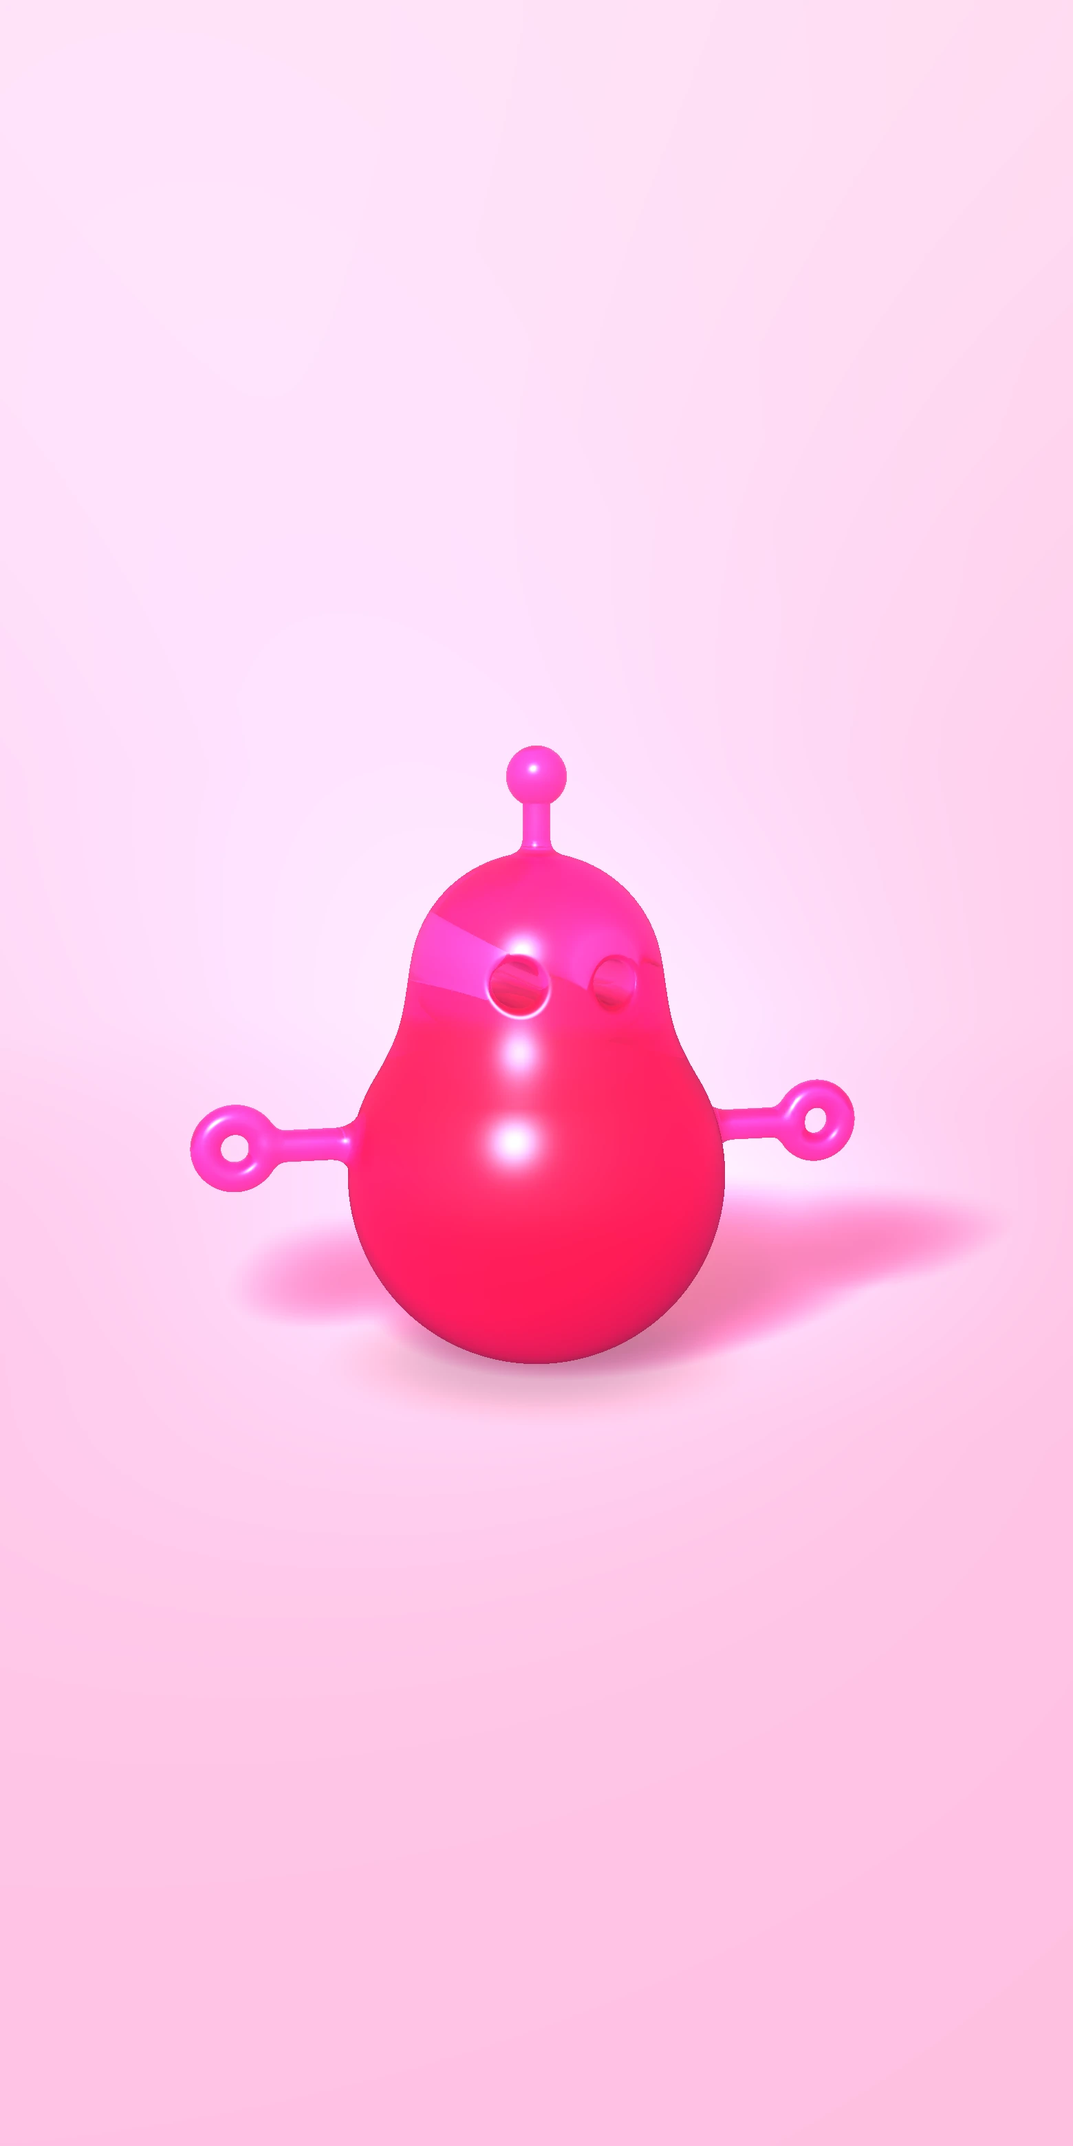
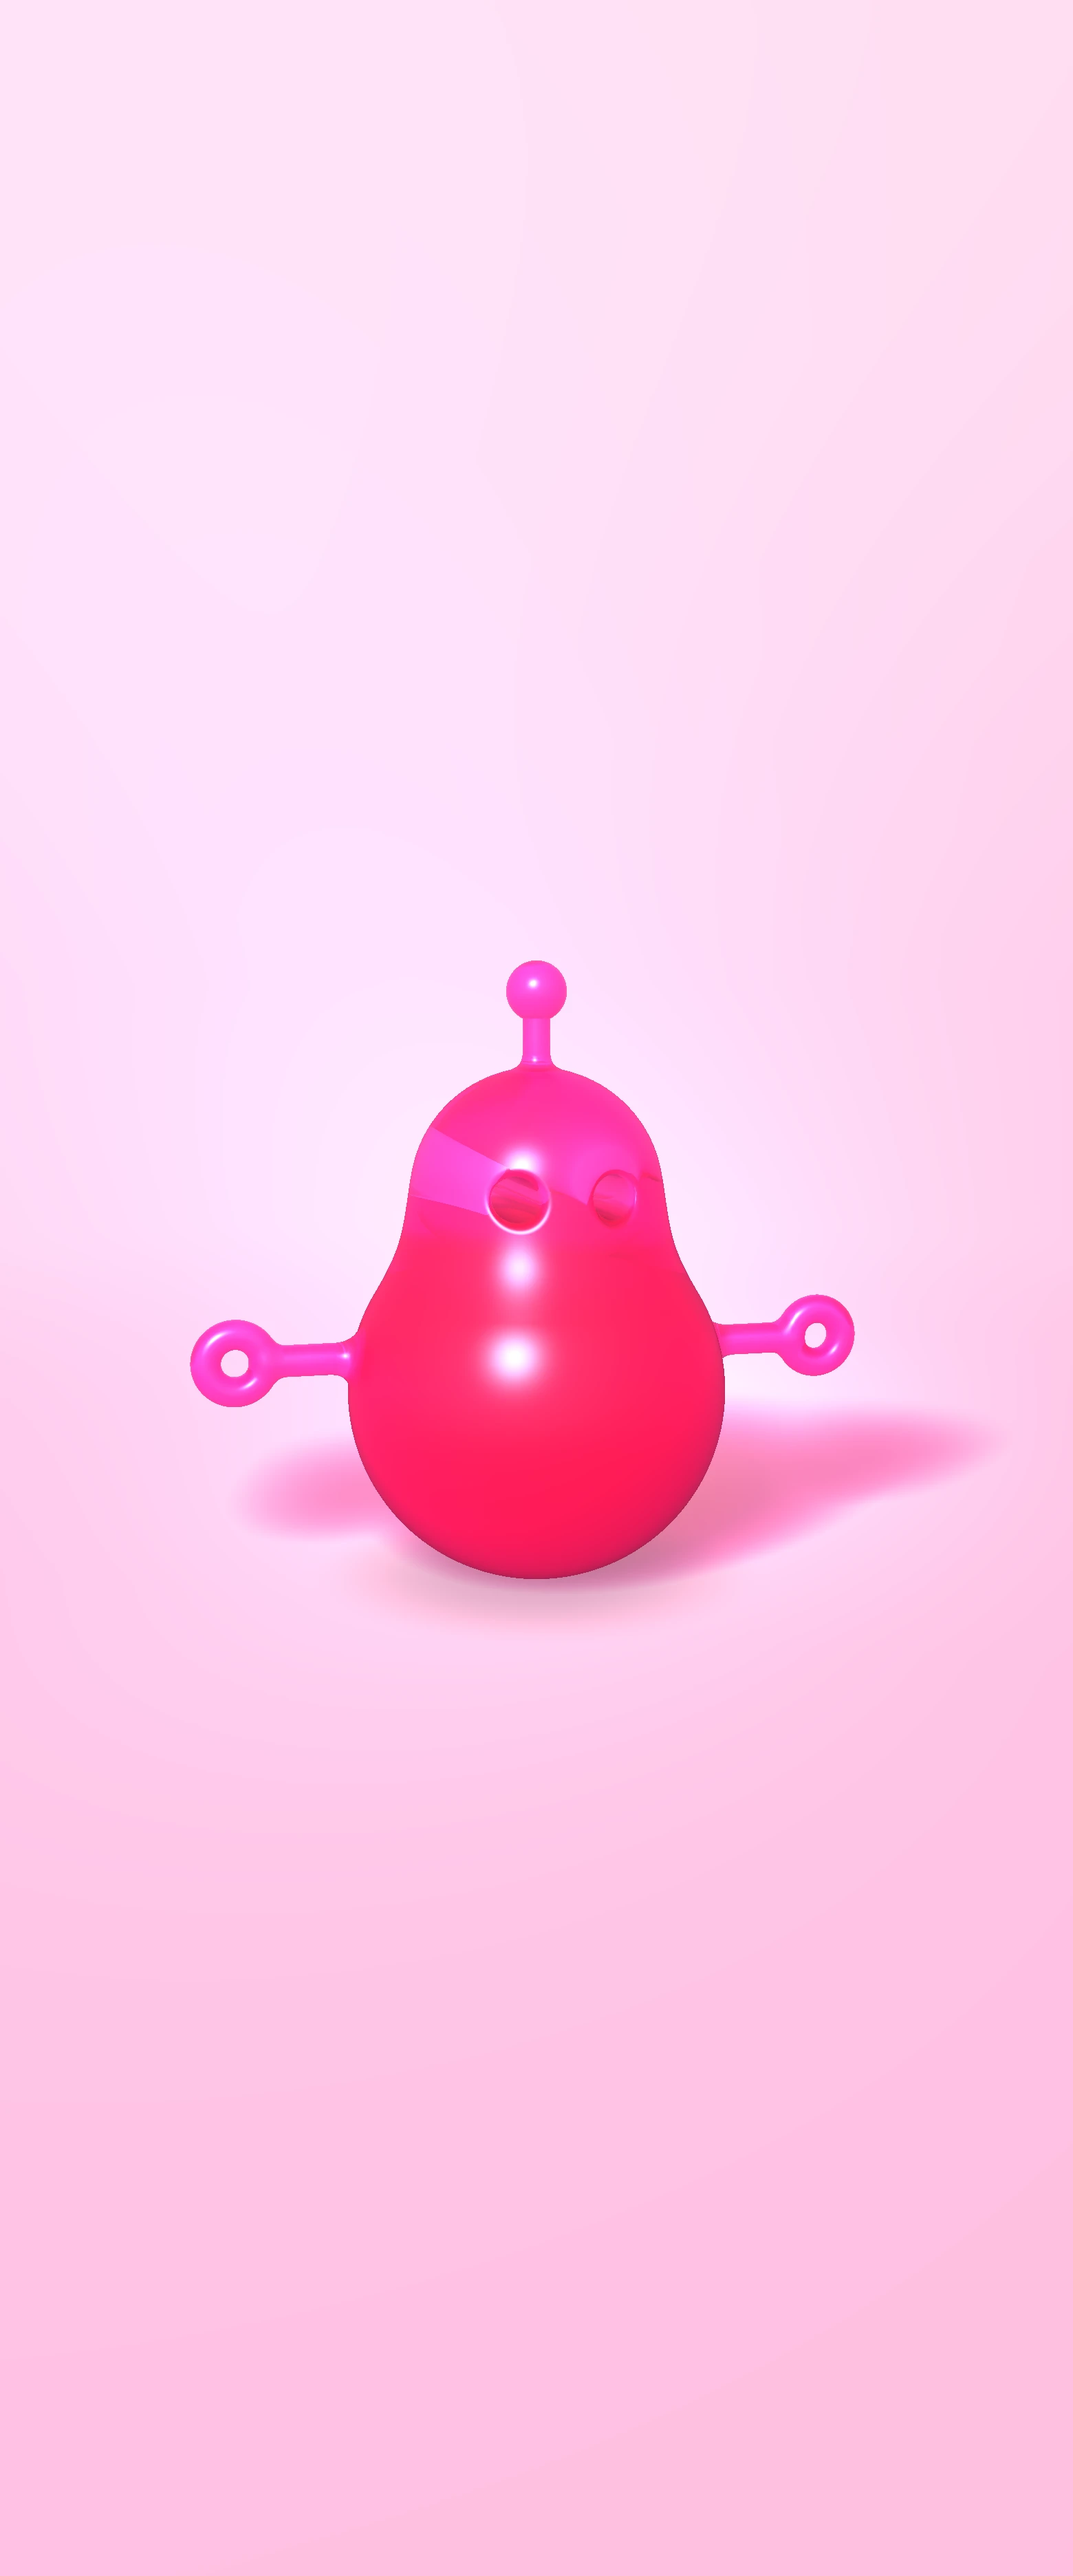
fix(site): frame the stage still like the live scene

Changed region(s): [[0.1846, 0.4974, 0.9231, 0.6529], [0.3692, 0.342, 0.6154, 0.5596]]

diff --git a/src/features/site/exhibit-art.ts b/src/features/site/exhibit-art.ts
@@ -1,20 +1,32 @@
 // Pre-rendered stills of the exhibit stage (scripts/render-stage-still.ts).
 // They are the first paint everywhere and the whole picture wherever the live
 // scene does not run.
+//
+// The shader sizes the mascot by the shorter side of the stage, so the stills
+// must be scaled by that same side or the crossfade to the live scene shows
+// two mascots. object-cover scales by whichever side overflows less: a 3.2:1
+// still is therefore scaled by the height on every landscape screen, and a
+// 1:2.4 still by the width on every phone.
 
-/** Width/height of the desktop and tall (portrait) stills, in CSS px at 1x. */
+/** Width/height of the wide (landscape) and tall (portrait) stills, CSS px at 1x. */
 export const STAGE_ART = {
-  desktop: { width: 1440, height: 900 },
-  tall: { width: 780, height: 1560 },
+  desktop: { width: 2880, height: 900 },
+  tall: { width: 780, height: 1872 },
 } as const;
 
-/** Portrait screens get the tall still so the mascot is not cropped. */
+/** Portrait screens get the tall still. */
 export const TALL_MEDIA = "(orientation: portrait)";
 
 const DIR = "/stage/stage";
 
 export const STAGE_SOURCES = {
   tall: `${DIR}-tall-780.webp 780w, ${DIR}-tall-1560.webp 1560w`,
-  desktop: `${DIR}-1440.webp 1440w, ${DIR}-2880.webp 2880w`,
-  fallback: `${DIR}-1440.webp`,
+  desktop: `${DIR}-wide-2880.webp 2880w, ${DIR}-wide-5760.webp 5760w`,
+  fallback: `${DIR}-wide-2880.webp`,
+} as const;
+
+/** Rendered widths: the wide still is height-driven, the tall one width-driven. */
+export const STAGE_SIZES = {
+  desktop: `${Math.ceil((STAGE_ART.desktop.width / STAGE_ART.desktop.height) * 100)}vh`,
+  tall: "100vw",
 } as const;

diff --git a/tests/e2e/exhibit-stage.spec.ts b/tests/e2e/exhibit-stage.spec.ts
@@ -71,3 +71,35 @@ test("on a phone the label sits below the mascot", async ({
   expect(label.x).toBeGreaterThanOrEqual(0);
   expect(label.x + label.width).toBeLessThanOrEqual(stage.x + stage.width);
 });
+
+// The still and the live shader must frame the mascot identically: the
+// shader sizes it by the shorter side, so object-cover must scale the still
+// by that same side (height on landscape, width on portrait) — otherwise the
+// crossfade shows two mascots of different sizes.
+for (const viewport of [
+  { width: 2560, height: 1080, side: "height" },
+  { width: 1920, height: 960, side: "height" },
+  { width: 1024, height: 768, side: "height" },
+  { width: 390, height: 844, side: "width" },
+] as const) {
+  test(`still scales by the ${viewport.side} at ${viewport.width}×${viewport.height}`, async ({
+    page,
+  }) => {
+    await page.setViewportSize(viewport);
+    await page.goto("/");
+    const img = page.getByRole("region", { name: "Ludvik" }).locator("img");
+    await expect(img).toHaveJSProperty("complete", true);
+    const { scale, byWidth, byHeight } = await img.evaluate(
+      (el: HTMLImageElement) => {
+        const box = el.getBoundingClientRect();
+        const w = box.width / el.naturalWidth;
+        const h = box.height / el.naturalHeight;
+        return { scale: Math.max(w, h), byWidth: w, byHeight: h };
+      },
+    );
+    expect(scale).toBeCloseTo(
+      viewport.side === "height" ? byHeight : byWidth,
+      5,
+    );
+  });
+}

diff --git a/src/features/site/exhibit-art.test.ts b/src/features/site/exhibit-art.test.ts
@@ -1,6 +1,6 @@
 import { existsSync } from "node:fs";
 import { describe, expect, it } from "vitest";
-import { STAGE_SOURCES } from "./exhibit-art";
+import { STAGE_ART, STAGE_SOURCES } from "./exhibit-art";
 
 const publicFile = (url: string) =>
   existsSync(new URL(`../../../public${url}`, import.meta.url));
@@ -14,5 +14,20 @@ describe("STAGE_SOURCES", () => {
     for (const url of [...urls, STAGE_SOURCES.fallback]) {
       expect(publicFile(url), url).toBe(true);
     }
+  });
+});
+
+describe("STAGE_ART", () => {
+  // object-cover must scale the still by the same side the shader sizes the
+  // mascot by: wide enough that landscape screens scale by height, tall
+  // enough that phones scale by width.
+  it("is wider than any common landscape screen", () => {
+    const { width, height } = STAGE_ART.desktop;
+    expect(width / height).toBeGreaterThanOrEqual(3);
+  });
+
+  it("is taller than any common phone", () => {
+    const { width, height } = STAGE_ART.tall;
+    expect(height / width).toBeGreaterThanOrEqual(2.3);
   });
 });

diff --git a/src/features/site/exhibit-stage.tsx b/src/features/site/exhibit-stage.tsx
@@ -1,7 +1,12 @@
 "use client";
 
 import { type ReactNode, useRef, useState } from "react";
-import { STAGE_ART, STAGE_SOURCES, TALL_MEDIA } from "./exhibit-art";
+import {
+  STAGE_ART,
+  STAGE_SIZES,
+  STAGE_SOURCES,
+  TALL_MEDIA,
+} from "./exhibit-art";
 import { ExhibitCanvas } from "./exhibit-canvas";
 
 // The exhibit stage shell: the pre-rendered still paints first; where the
@@ -27,11 +32,15 @@ export function ExhibitStage({
       className="group bg-pink-soft relative h-svh min-h-[560px] w-full overflow-hidden select-none"
     >
       <picture>
-        <source media={TALL_MEDIA} srcSet={STAGE_SOURCES.tall} sizes="100vw" />
+        <source
+          media={TALL_MEDIA}
+          srcSet={STAGE_SOURCES.tall}
+          sizes={STAGE_SIZES.tall}
+        />
         <img
           src={STAGE_SOURCES.fallback}
           srcSet={STAGE_SOURCES.desktop}
-          sizes="100vw"
+          sizes={STAGE_SIZES.desktop}
           alt=""
           width={STAGE_ART.desktop.width}
           height={STAGE_ART.desktop.height}

diff --git a/scripts/render-stage-still.ts b/scripts/render-stage-still.ts
@@ -13,11 +13,14 @@ import {
 } from "../src/features/site/exhibit-shader";
 
 const OUT = path.resolve(__dirname, "../public/stage");
+// Extreme aspects on purpose: object-cover then scales the wide still by the
+// screen height on every landscape screen and the tall one by the width on
+// every phone — the same side the shader sizes the mascot by (exhibit-art.ts).
 const TARGETS = [
-  { name: "stage-1440", width: 1440, height: 900 },
-  { name: "stage-2880", width: 2880, height: 1800 },
-  { name: "stage-tall-780", width: 780, height: 1560 },
-  { name: "stage-tall-1560", width: 1560, height: 3120 },
+  { name: "stage-wide-2880", width: 2880, height: 900 },
+  { name: "stage-wide-5760", width: 5760, height: 1800 },
+  { name: "stage-tall-780", width: 780, height: 1872 },
+  { name: "stage-tall-1560", width: 1560, height: 3744 },
 ];
 
 // Runs inside the page. Kept as source text: tsx (esbuild) would otherwise
